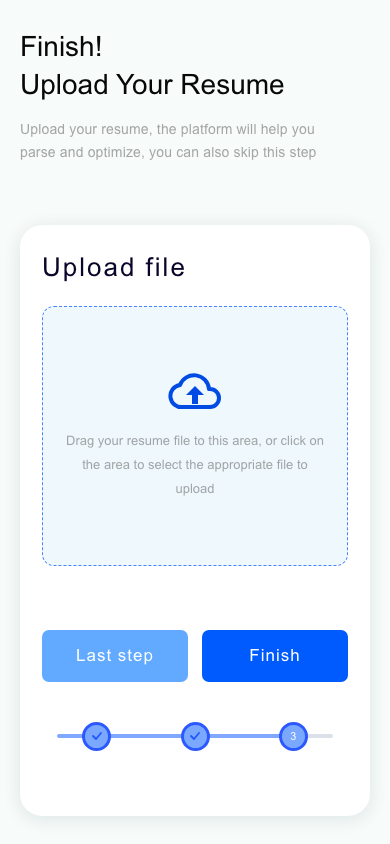
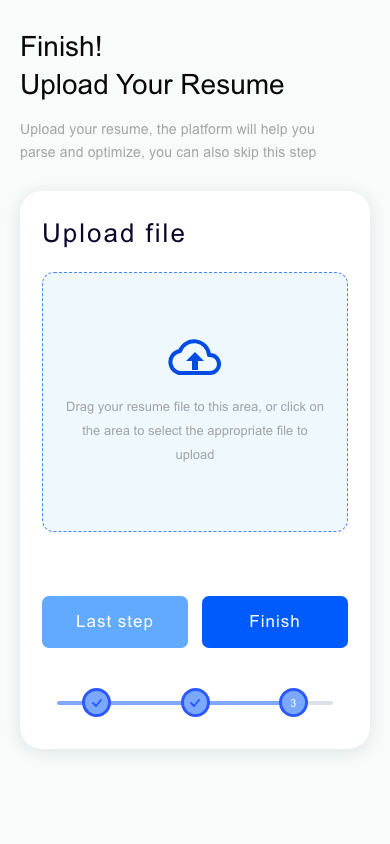
Keep mobile content aligned on taller screens

diff --git a/src/styles.css b/src/styles.css
@@ -110,7 +110,7 @@ button:focus-visible { outline: 3px solid #103f9b; outline-offset: 4px; }
   .desktop-break { display: none; }
 }
 @media (max-width: 1023px) {
-  .onboarding { grid-template-columns: 1fr; gap: 32px; max-width: 760px; padding: 40px 32px; }
+  .onboarding { grid-template-columns: 1fr; align-content: start; gap: 32px; max-width: 760px; padding: 40px 32px; }
   .introduction { min-height: 215px; display: flex; align-items: flex-start; }
   .introduction__copy { width: 65%; padding-top: 8px; }
   .introduction__illustration { left: auto; right: -14px; bottom: -32px; width: 230px; max-width: 36%; }
